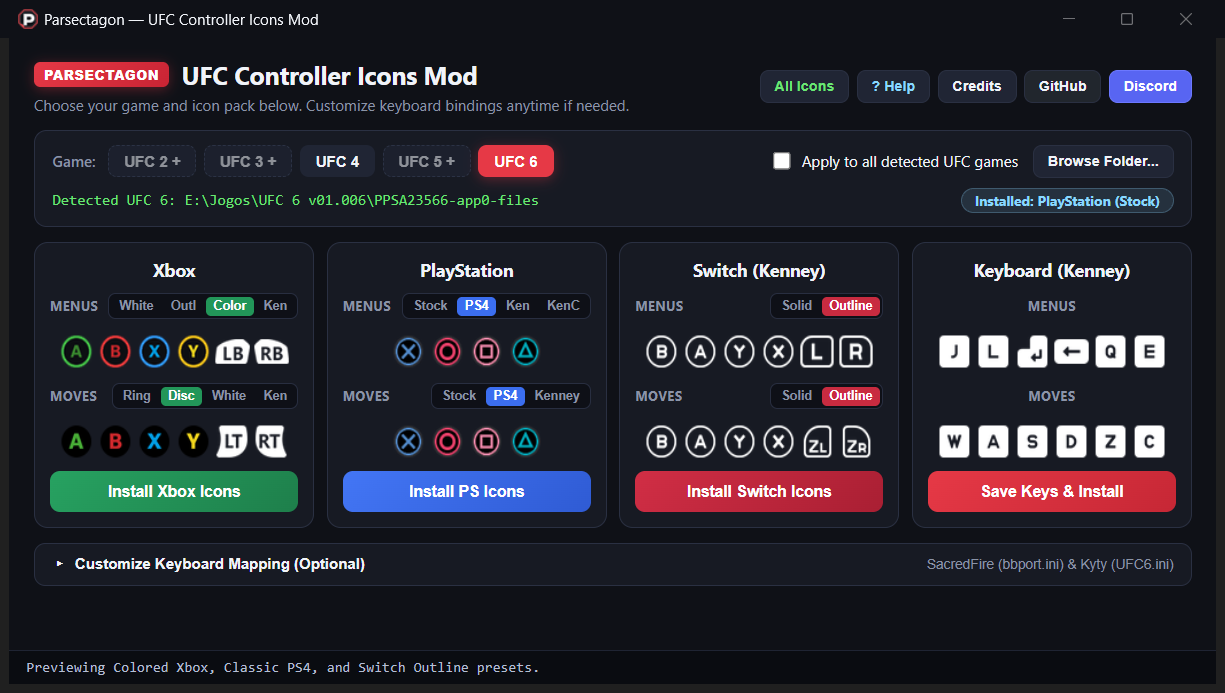
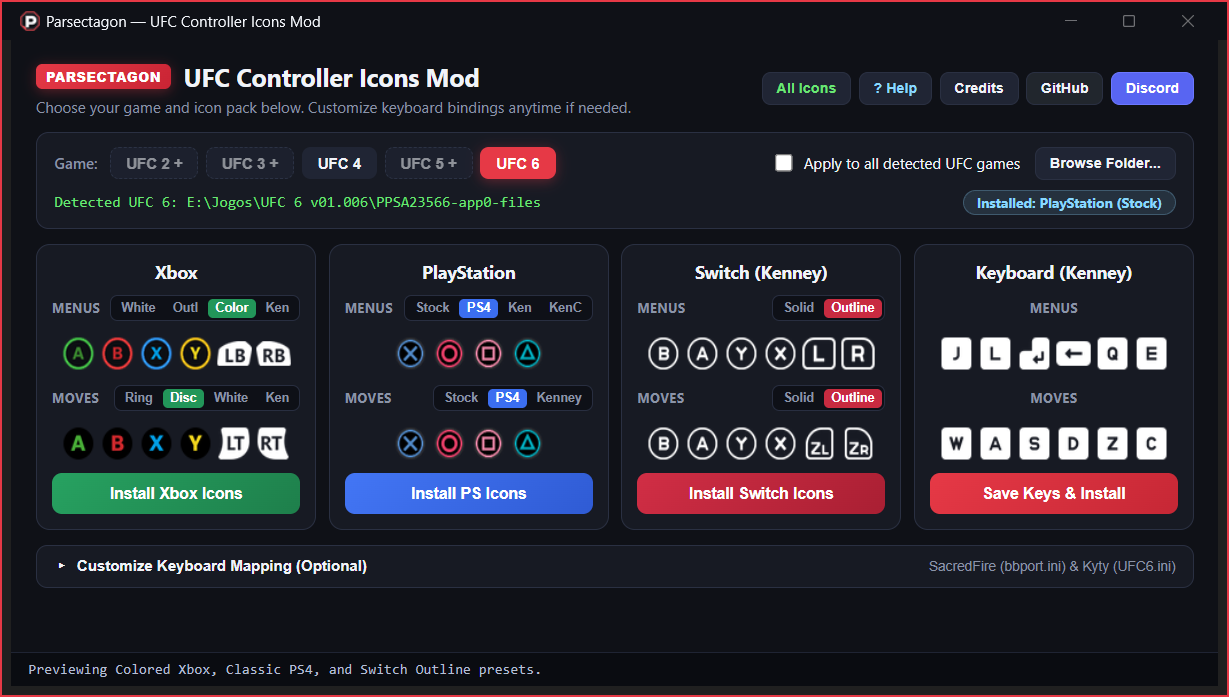
Add Parsectagon red window border to app and screenshots

diff --git a/installer/ufc_icons_webview.py b/installer/ufc_icons_webview.py
@@ -869,6 +869,8 @@ def _apply_dark_titlebar_hwnd(title: str) -> None:
         dwm(hwnd, 20, ctypes.byref(val), ctypes.sizeof(val))
         cap = ctypes.c_int(0x0017110F)  # #0f1117
         dwm(hwnd, 35, ctypes.byref(cap), ctypes.sizeof(cap))
+        bdr = ctypes.c_int(0x004639E6)  # #e63946 Parsectagon red border
+        dwm(hwnd, 34, ctypes.byref(bdr), ctypes.sizeof(bdr))
         txt = ctypes.c_int(0x00F9F4F1)
         dwm(hwnd, 36, ctypes.byref(txt), ctypes.sizeof(txt))
     except Exception:
